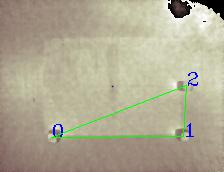
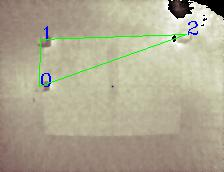
before Threading

diff --git a/Camera-Project-IFM-master/totfinsara/FlaskProject/templates/resultats_calibracio.html b/Camera-Project-IFM-master/totfinsara/FlaskProject/templates/resultats_calibracio.html
@@ -30,8 +30,7 @@
 
     <img id="image" src="{{ url_for('static', filename='img/calibracio.jpg') }}">
     <img id="image2" src="{{ url_for('world') }}">
-    <img id="image3" src="{{ url_for('world_prima') }}">
-    <img id="image4" src="{{ url_for('user') }}">
+    
 
     
     

diff --git a/Camera-Project-IFM-master/totfinsara/FlaskProject/videos_separats_proves.py b/Camera-Project-IFM-master/totfinsara/FlaskProject/videos_separats_proves.py
@@ -18,6 +18,7 @@ from PIL import Image
 import PIL
 import matplotlib.pyplot as plt
 from matplotlib.backends.backend_agg import FigureCanvasAgg as FigureCanvas
+from matplotlib.patches import Polygon
 import seaborn as sns
 import io
 
@@ -62,7 +63,11 @@ headings2 = ("ID", "RIGHT","LEFT", "BOTTOM", "TOP", "HEIGHT")
 #email_update_interval = 600 # sends an email only once in this time interval
 #video_camera = VideoCamera(flip=True) # creates a camera object, flip vertically
 #object_classifier = cv2.CascadeClassifier("models/fullbody_recognition_model.xml") # an opencv classifier
+#def Thread():
+#    while True:
+#        print("uuu")
 
+#threading.Thread(target=Thread).start()
 # App Globals (do not edit)
 app = Flask(__name__)
 #run_with_ngrok(app)
@@ -75,8 +80,12 @@ last_epoch = 0
 
 
 
-fig,ax = plt.subplots(figsize=(10,10))
+fig,ax = plt.subplots()
 ax = sns.set_style(style="darkgrid")
+
+
+#ax = plt.gca()
+#ax.set_xlim(0,1)
 
 
 @app.route('/world')
@@ -87,46 +96,59 @@ def world():
     
     x = np.array([Punt0[0], Punt1[0], Punt2[0]])
     y = np.array([Punt0[1], Punt1[1], Punt2[1]])
+    x_wp = np.array([Punt0_wp[0], Punt1_wp[0], Punt2_wp[0]])
+    y_wp = np.array([Punt0_wp[1], Punt1_wp[1], Punt2_wp[1]])
+    x_usr = np.array([Punt0_usr[0], Punt1_usr[0], Punt2_usr[0]])
+    y_usr = np.array([Punt0_usr[1], Punt1_usr[1], Punt2_usr[1]])
+
+    
     plt.scatter(x,y)
+    plt.scatter(x_wp,y_wp)
+    plt.scatter(x_usr,y_usr)
+
     sns.lineplot(x,y)
+    sns.lineplot(x_wp,y_wp)
+    sns.lineplot(x_usr,y_usr)
+    
+    
     canvas=FigureCanvas(fig)
     img=io.BytesIO()
     fig.savefig(img)
     img.seek(0)
     return send_file(img, mimetype='img/png')
 
-@app.route('/world_prima')
-def world_prima():
-    global Punt0_wp, Punt1_wp, Punt2_wp
+#@app.route('/world_prima')
+#def world_prima():
+#    global Punt0_wp, Punt1_wp, Punt2_wp
+#
+#
+#    x_wp = np.array([Punt0_wp[0], Punt1_wp[0], Punt2_wp[0]])
+#    y_wp = np.array([Punt0_wp[1], Punt1_wp[1], Punt2_wp[1]])
+#   plt.scatter(x_wp,y_wp)
+#    sns.lineplot(x_wp,y_wp)
+#    canvas=FigureCanvas(fig)
+#    img2=io.BytesIO()
+#    fig.savefig(img2)
+#    img2.seek(0)
+#    return send_file(img2, mimetype='img/png')
 
 
-    x_wp = np.array([Punt0_wp[0], Punt1_wp[0], Punt2_wp[0]])
-    y_wp = np.array([Punt0_wp[1], Punt1_wp[1], Punt2_wp[1]])
-    plt.scatter(x_wp,y_wp)
-    sns.lineplot(x_wp,y_wp)
-    canvas=FigureCanvas(fig)
-    img2=io.BytesIO()
-    fig.savefig(img2)
-    img2.seek(0)
-    return send_file(img2, mimetype='img/png')
 
-
-
-@app.route('/user')
-def user():
+#@app.route('/user')
+#def user():
     
-    global Punt0_usr, Punt1_usr, Punt2_usr
+#    global Punt0_usr, Punt1_usr, Punt2_usr
 
     
-    x_usr = np.array([Punt0_usr[0], Punt1_usr[0], Punt2_usr[0]])
-    y_usr = np.array([Punt0_usr[1], Punt1_usr[1], Punt2_usr[1]])
-    plt.scatter(x_usr,y_usr)
-    sns.lineplot(x_usr,y_usr)
-    canvas=FigureCanvas(fig)
-    img3=io.BytesIO()
-    fig.savefig(img3)
-    img3.seek(0)
-    return send_file(img3, mimetype='img/png')
+#    x_usr = np.array([Punt0_usr[0], Punt1_usr[0], Punt2_usr[0]])
+#    y_usr = np.array([Punt0_usr[1], Punt1_usr[1], Punt2_usr[1]])
+#    plt.scatter(x_usr,y_usr)
+#    sns.lineplot(x_usr,y_usr)
+#    canvas=FigureCanvas(fig)
+#    img3=io.BytesIO()
+#    fig.savefig(img3)
+#    img3.seek(0)
+#    return send_file(img3, mimetype='img/png')
 
 @app.route('/')
 #@basic_auth.required
@@ -1012,6 +1034,15 @@ def calibratge(resta,detector):
     global Punt0_wp, Punt1_wp, Punt2_wp
     global Punt0_usr, Punt1_usr, Punt2_usr
 
+    Punt0 = 0
+    Punt1 = 0
+    Punt2 = 0
+    Punt0_wp = 0 
+    Punt1_wp = 0
+    Punt2_wp = 0
+    Punt0_usr = 0
+    Punt1_usr = 0
+    Punt2_usr =  0
 
     matriu_blanc = np.zeros((172,224), np.uint8)
     resta_color = cv2.applyColorMap(resta.astype(np.uint8), cv2.COLORMAP_TWILIGHT)
@@ -1020,7 +1051,8 @@ def calibratge(resta,detector):
     _, binary = cv2.threshold(img_grey, 100,255, cv2.THRESH_BINARY)
     contours, hierarchy = cv2.findContours(binary, cv2.RETR_LIST, cv2.CHAIN_APPROX_SIMPLE)
     img_contorns = cv2.drawContours(matriu_blanc, contours, -1 ,(255,0,0), 1)
-
+    
+    calib_flagg = 0
     llistaCentreMases_C = []
     print(len(keypoints_C))
     num_elements = 0
@@ -1142,8 +1174,8 @@ def calibratge(resta,detector):
 
         print(angle_graus, angle_graus2)
         suma_graus = abs(angle_graus) + abs(angle_graus2)
-        if suma_graus < 179 or suma_graus > 181:
-            calib_flagg = 5
+        #if suma_graus < 179 or suma_graus > 181:
+        #    calib_flagg = 5
 
         #angle_graus2 = (angle_rad2 * 180)/ math.pi
 
